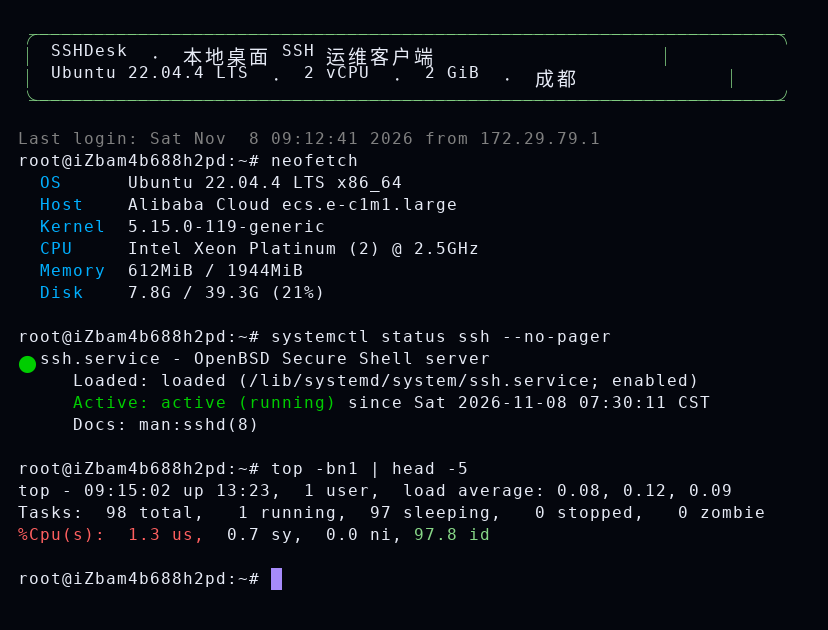
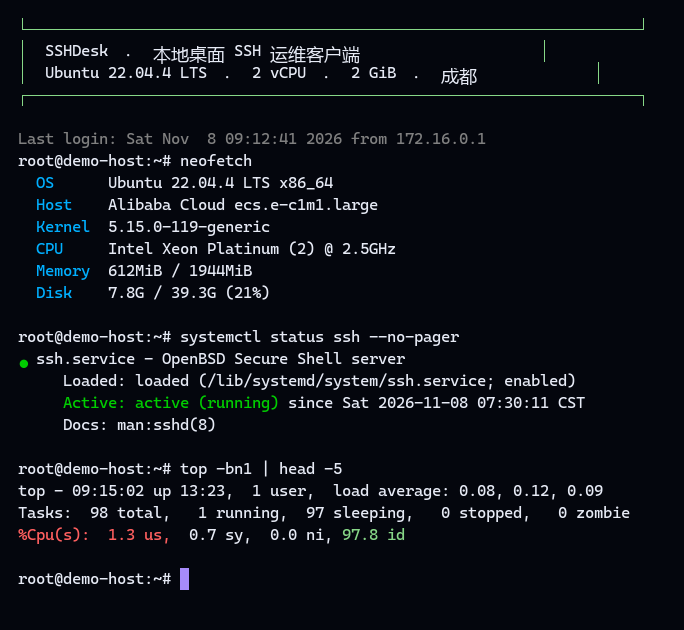
docs: 终端预览图重画并脱敏（示例主机名/地址），渲染脚本改跨平台字体与几何框线

diff --git a/docs/render_preview.py b/docs/render_preview.py
@@ -12,8 +12,35 @@ from sshdesk.core.terminal_screen import ScreenBuffer, char_width  # noqa: E402
 
 BG = "#04060d"
 DEFAULT_FG = "#e6eaf5"
-MONO = "/usr/share/fonts/truetype/dejavu/DejaVuSansMono.ttf"
-CJK = "/usr/share/fonts/opentype/noto/NotoSansCJK-Regular.ttc"
+# 字体按平台选：Linux 用系统自带的 DejaVu / Noto，Windows 用 Consolas / 雅黑。
+# 之前写死了 Linux 路径，在 Windows 上跑会拿不到字体、退回点阵字体，图就糊了。
+if sys.platform == "win32":
+    MONO_CANDIDATES = [
+        r"C:\Windows\Fonts\CascadiaMono.ttf",   # 含圆角制表符，观感最接近终端
+        r"C:\Windows\Fonts\consola.ttf",
+        r"C:\Windows\Fonts\msgothic.ttc",
+    ]
+    CJK_CANDIDATES = [r"C:\Windows\Fonts\msyh.ttc", r"C:\Windows\Fonts\simsun.ttc"]
+else:
+    MONO_CANDIDATES = [
+        "/usr/share/fonts/truetype/dejavu/DejaVuSansMono.ttf",
+        "/usr/share/fonts/truetype/liberation/LiberationMono-Regular.ttf",
+    ]
+    CJK_CANDIDATES = [
+        "/usr/share/fonts/opentype/noto/NotoSansCJK-Regular.ttc",
+        "/usr/share/fonts/truetype/noto/NotoSansCJK-Regular.ttc",
+    ]
+
+
+def _first_font(candidates):
+    for path in candidates:
+        if Path(path).exists():
+            return path
+    return candidates[0]
+
+
+MONO = _first_font(MONO_CANDIDATES)
+CJK = _first_font(CJK_CANDIDATES)
 
 DEMO = (
     "\x1b[2J\x1b[H"
@@ -42,16 +69,23 @@ DEMO = (
 )
 
 
-def render(buffer: ScreenBuffer, cw: int = 11, line_h: int = 22, pad: int = 18) -> Image.Image:
+def render(buffer: ScreenBuffer, cw: int = None, line_h: int = None,
+           pad: int = 18, size: int = 16) -> Image.Image:
+    try:
+        mono = ImageFont.truetype(MONO, size)
+        cjk = ImageFont.truetype(CJK, int(size * 1.15), index=0)  # 中文占两格，字号按 2 格宽取
+    except OSError:
+        mono = cjk = ImageFont.load_default()
+    # 格宽必须等于等宽字体的实际字宽。写死 11 的时候，16px 的 "─" 只有 8~9px，
+    # 每格之间留缝，整条框线看着就是断续的虚线。
+    if cw is None:
+        cw = max(6, int(round(mono.getlength("M"))))
+    if line_h is None:
+        line_h = max(10, int(round(size * 1.35)))
     width = pad * 2 + buffer.cols * cw
     height = pad * 2 + buffer.rows * line_h
     image = Image.new("RGB", (width, height), BG)
     draw = ImageDraw.Draw(image)
-    try:
-        mono = ImageFont.truetype(MONO, 16)
-        cjk = ImageFont.truetype(CJK, 19, index=0)  # 中文占两格，字号按 2 格宽取
-    except OSError:
-        mono = cjk = ImageFont.load_default()
 
     for row in range(buffer.rows):
         y = pad + row * line_h
@@ -66,7 +100,26 @@ def render(buffer: ScreenBuffer, cw: int = 11, line_h: int = 22, pad: int = 18) 
                 draw.rectangle([x, y, x + cw * max(1, char_width(ch)) - 1, y + line_h - 1], fill=fg)
                 fg = BG
             font = mono if ord(ch) < 128 else cjk
-            draw.text((x, y + 1), ch, font=font, fill=fg)
+            if ch == "─":
+                # 框线的横线在不同字体里的墨迹位置不一致（常偏上/偏下，甚至只画出一小段）。
+                # 直接用几何线铺满整格，框线才是连续的，也不会随字体变。
+                draw.line([(x, y + line_h // 2), (x + cw - 1, y + line_h // 2)], fill=fg)
+            elif ch == "│":
+                # 同理：字形高度只有字号那么大，行距比它高，竖线会断成一节一节
+                draw.line([(x + cw // 2, y), (x + cw // 2, y + line_h - 1)], fill=fg)
+            elif ch in "╭╮╰╯":
+                # 圆角也不能交给字体：字体的竖线贴着格子边缘，跟上面格心的竖线错开几像素
+                cx, cy = x + cw // 2, y + line_h // 2
+                if ch in "╭╮":
+                    draw.line([(cx, y), (cx, cy)], fill=fg)
+                else:
+                    draw.line([(cx, cy), (cx, y + line_h - 1)], fill=fg)
+                if ch in "╭╰":
+                    draw.line([(cx, cy), (x + cw - 1, cy)], fill=fg)
+                else:
+                    draw.line([(x, cy), (cx, cy)], fill=fg)
+            else:
+                draw.text((x, y + 1), ch, font=font, fill=fg)
 
     # 光标
     cx = pad + buffer.cursor_c * cw
